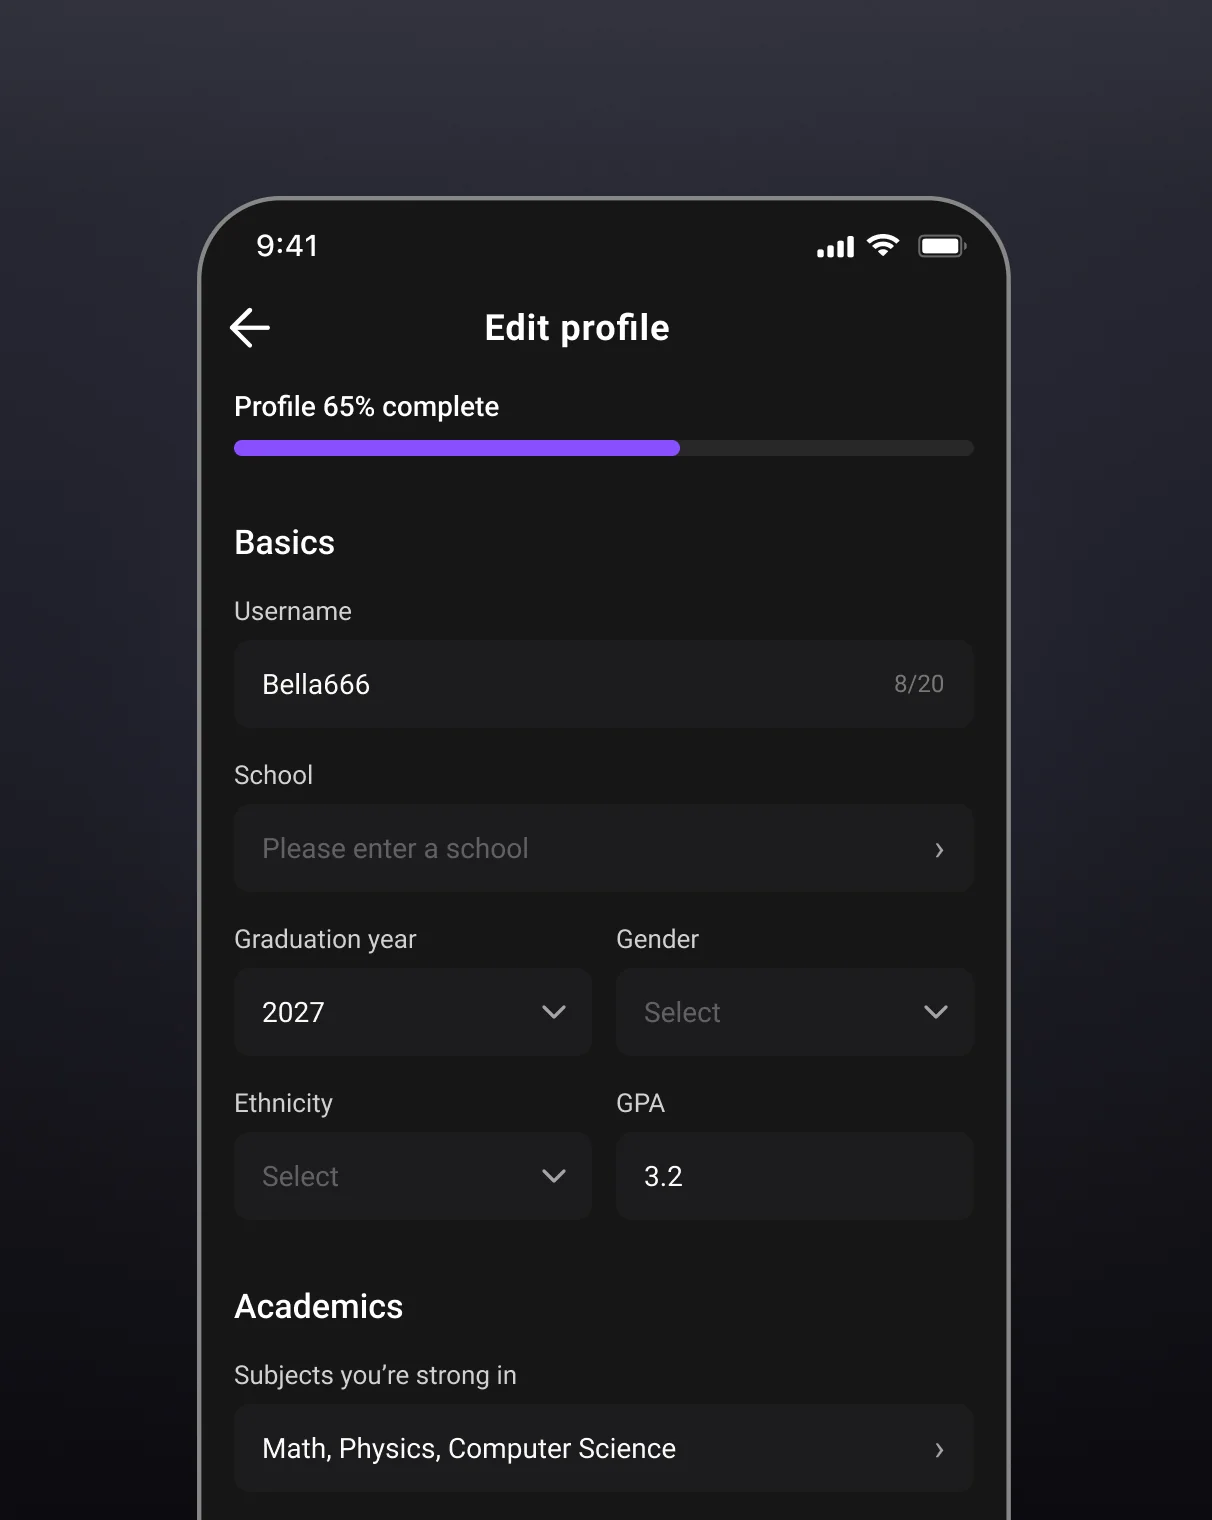
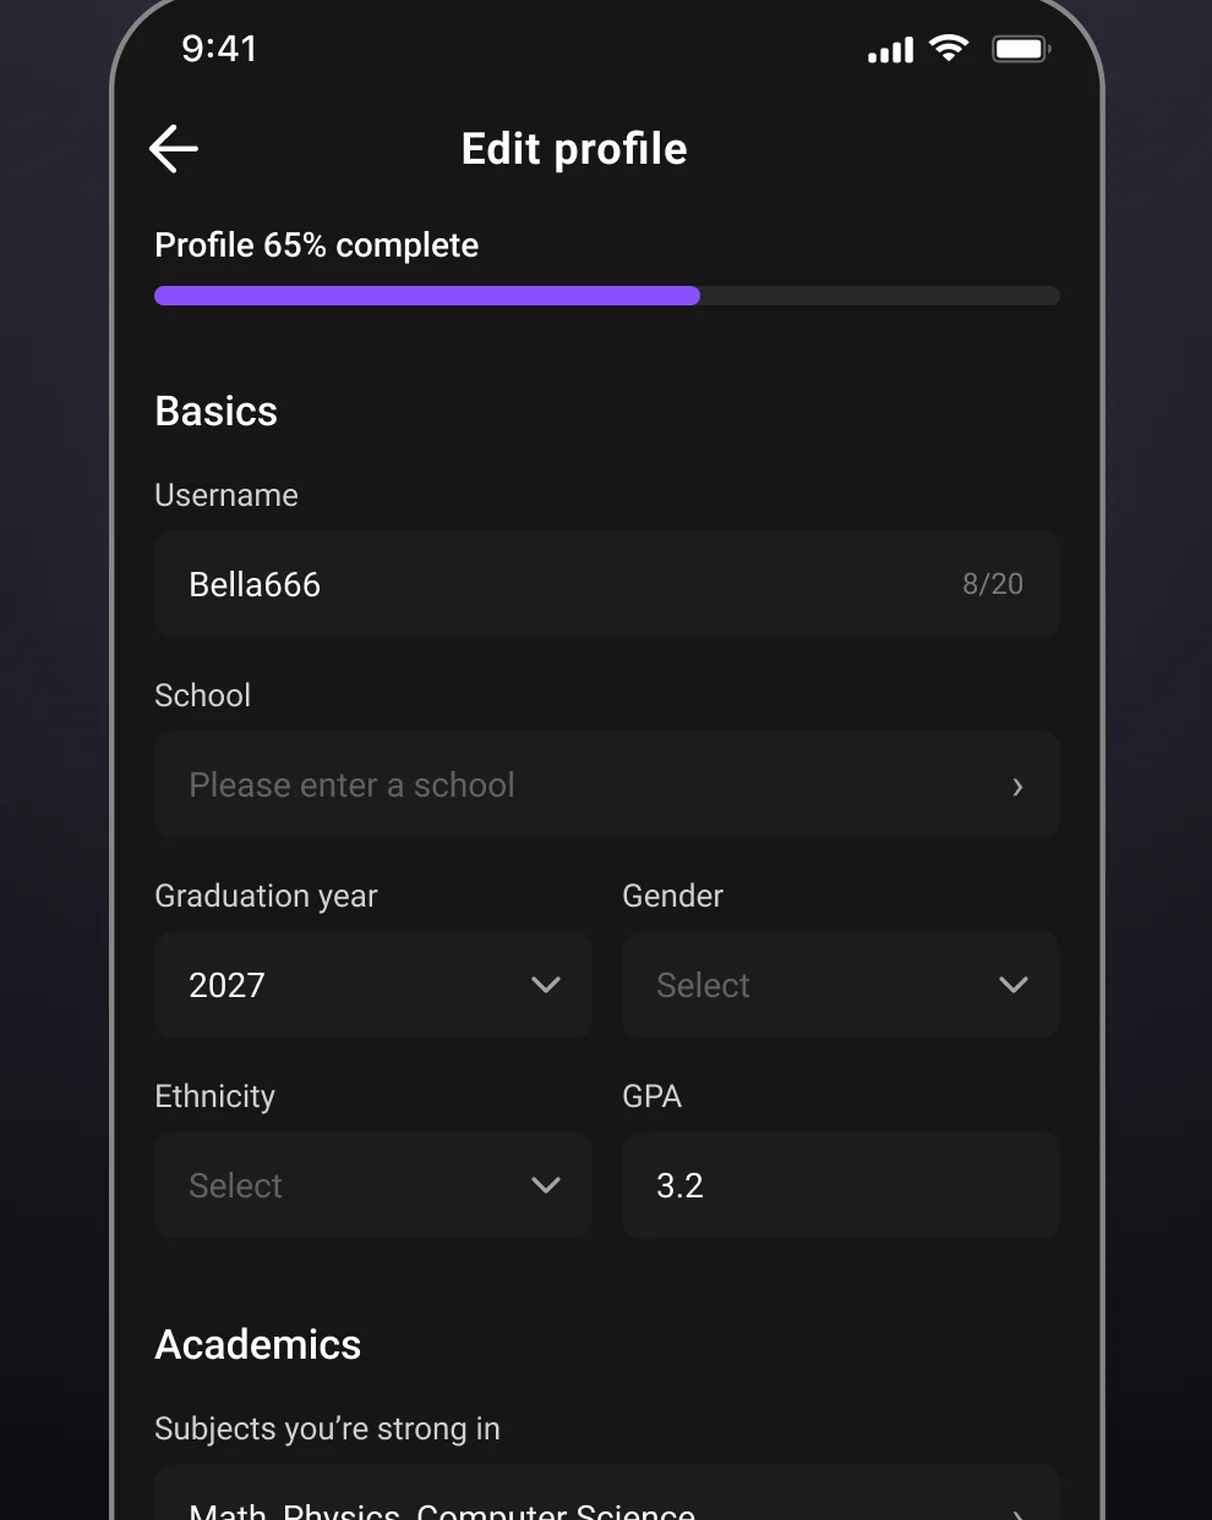
Personal: same framing and size for the before tiles in both steps

diff --git a/answer.html b/answer.html
@@ -327,7 +327,6 @@
   .ppair { align-items: end; }
   .ptabs:not(:has(.pstep2trig.shown)) .ppair[data-s="2"] { display: none; }
   .ptabs:has(.pstep2trig.shown) .ppair[data-s="1"] { display: none; }
-  .ppair .pbefore .pt { height: min(calc(var(--tile-h, 400px) * .7), calc(100vh - 510px)); opacity: .6; filter: saturate(.55) brightness(.85); }
   .ppair .pbefore figcaption { opacity: .6; }
   .ptph { position: absolute; inset: 0; display: grid; place-items: center; text-align: center; gap: 6px;
     border: 1px dashed rgba(255,255,255,.2); border-radius: inherit; font-family: var(--serif); font-size: 12px;
@@ -336,6 +335,7 @@
   .ptiles { display: grid; grid-template-columns: repeat(3, 1fr); gap: var(--img-gap, 22px); margin-top: 18px; }
   .ptiles.two { grid-template-columns: repeat(2, auto); justify-content: end; gap: var(--img-gap, 22px); margin-top: 0; }
   .ptiles.two .pt { height: min(var(--tile-h, 400px), calc(100vh - 420px)); aspect-ratio: 1212 / 1520; width: auto; }
+  .ptiles.two.ppair .pbefore .pt { height: calc(min(var(--tile-h, 400px), 100vh - 420px) * .78); opacity: .6; filter: saturate(.55) brightness(.85); }
   .ptiles.two figure { width: max-content; }
   .ptiles figure { margin: 0; }
   .pt { position: relative; height: var(--tile-h, 300px); border-radius: 16px; overflow: hidden; border: 1px solid var(--line); background: rgba(255,255,255,.03); transition: transform .35s ease-out, border-color .35s ease-out; }
@@ -1619,7 +1619,7 @@
             </div>
             <div class="ptiles two ppair" data-s="1">
               <figure class="pbefore">
-                <div class="pt"><img class="zoomable" src="assets/personal-me-before.webp" alt="The old Me page students had to fill in" /></div>
+                <div class="pt"><img class="zoomable" src="assets/personal-me-before.webp?v=2" alt="The old Me page students had to fill in" /></div>
                 <figcaption>Before · the Me page<span>Students had to open it and fill it in themselves.</span></figcaption>
               </figure>
               <figure class="pafter">
